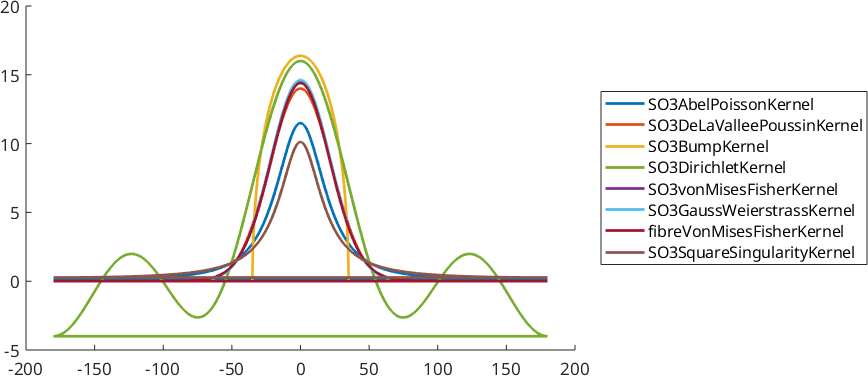
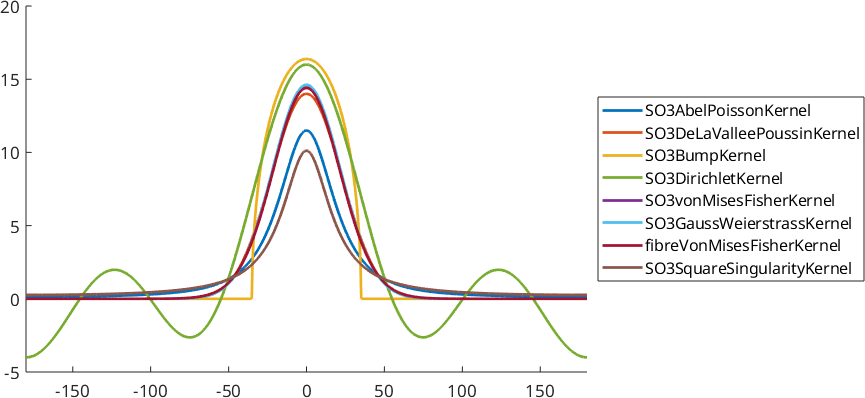
minor

diff --git a/pages/function_reference_matlab/EBSD3.gridify.html b/pages/function_reference_matlab/EBSD3.gridify.html
@@ -104,8 +104,8 @@ plot(ebsdMg, ebsdMg.orientations)
 ebsd = EBSD (y↑→x)
  
  Phase  Orientations     Mineral         Color  Symmetry  Crystal reference frame
-     0     46 (0.2%)  notIndexed                                                 
-     1  22833 (100%)   Magnesium  LightSkyBlue     6/mmm       X||a*, Y||b, Z||c*
+     0     46 (0.2%)  notIndexed          none                                   
+     1  22833 (100%)   Magnesium  LightSkyBlue     6/mmm        X||a*, Y||b, Z||c
  
  Properties: bands, bc, bs, error, mad
  Scan unit : um
@@ -116,13 +116,13 @@ ebsd = EBSD (y↑→x)
 ebsdMg = EBSDsquare (y↑→x)
  
  Phase  Orientations    Mineral         Color  Symmetry  Crystal reference frame
-     1  22833 (100%)  Magnesium  LightSkyBlue     6/mmm       X||a*, Y||b, Z||c*
+     1  22833 (100%)  Magnesium  LightSkyBlue     6/mmm        X||a*, Y||b, Z||c
  
  Properties: bands, bc, bs, error, mad, oldId
  Scan unit : um
  X x Y x Z : [0, 50] x [0, 41] x [0, 0]
  Normal vector: (0,0,1)
- Square grid  :137 x 167
+ Square grid  :167 x 137
 {% endhighlight %}
 <center>
 {% include inline_image.html file="EBSD3.gridify_01.png" %}

diff --git a/pages/function_reference_matlab/EBSD.gridify.html b/pages/function_reference_matlab/EBSD.gridify.html
@@ -104,8 +104,8 @@ plot(ebsdMg, ebsdMg.orientations)
 ebsd = EBSD (y↑→x)
  
  Phase  Orientations     Mineral         Color  Symmetry  Crystal reference frame
-     0     46 (0.2%)  notIndexed                                                 
-     1  22833 (100%)   Magnesium  LightSkyBlue     6/mmm       X||a*, Y||b, Z||c*
+     0     46 (0.2%)  notIndexed          none                                   
+     1  22833 (100%)   Magnesium  LightSkyBlue     6/mmm        X||a*, Y||b, Z||c
  
  Properties: bands, bc, bs, error, mad
  Scan unit : um
@@ -116,13 +116,13 @@ ebsd = EBSD (y↑→x)
 ebsdMg = EBSDsquare (y↑→x)
  
  Phase  Orientations    Mineral         Color  Symmetry  Crystal reference frame
-     1  22833 (100%)  Magnesium  LightSkyBlue     6/mmm       X||a*, Y||b, Z||c*
+     1  22833 (100%)  Magnesium  LightSkyBlue     6/mmm        X||a*, Y||b, Z||c
  
  Properties: bands, bc, bs, error, mad, oldId
  Scan unit : um
  X x Y x Z : [0, 50] x [0, 41] x [0, 0]
  Normal vector: (0,0,1)
- Square grid  :137 x 167
+ Square grid  :167 x 137
 {% endhighlight %}
 <center>
 {% include inline_image.html file="EBSD.gridify_01.png" %}

diff --git a/pages/documentation_matlab/CPOSeismicProperties.html b/pages/documentation_matlab/CPOSeismicProperties.html
@@ -33,7 +33,7 @@ mtexdata forsterite
 ebsd = EBSD (y↑→x)
  
  Phase  Orientations     Mineral         Color  Symmetry  Crystal reference frame
-     0   58485 (24%)  notIndexed                                                 
+     0   58485 (24%)  notIndexed          none                                   
      1  152345 (62%)  Forsterite  LightSkyBlue       mmm                         
      2   26058 (11%)   Enstatite  DarkSeaGreen       mmm                         
      3   9064 (3.7%)    Diopside     Goldenrod     12/m1       X||a*, Y||b*, Z||c

diff --git a/pages/function_reference_matlab/EBSD.spatialProfile.html b/pages/function_reference_matlab/EBSD.spatialProfile.html
@@ -105,8 +105,8 @@ mtexdata twins
 ebsd = EBSD (y↑→x)
  
  Phase  Orientations     Mineral         Color  Symmetry  Crystal reference frame
-     0     46 (0.2%)  notIndexed                                                 
-     1  22833 (100%)   Magnesium  LightSkyBlue     6/mmm       X||a*, Y||b, Z||c*
+     0     46 (0.2%)  notIndexed          none                                   
+     1  22833 (100%)   Magnesium  LightSkyBlue     6/mmm        X||a*, Y||b, Z||c
  
  Properties: bands, bc, bs, error, mad
  Scan unit : um

diff --git a/pages/function_reference_matlab/EBSDsquare.spatialProfile.html b/pages/function_reference_matlab/EBSDsquare.spatialProfile.html
@@ -105,8 +105,8 @@ mtexdata twins
 ebsd = EBSD (y↑→x)
  
  Phase  Orientations     Mineral         Color  Symmetry  Crystal reference frame
-     0     46 (0.2%)  notIndexed                                                 
-     1  22833 (100%)   Magnesium  LightSkyBlue     6/mmm       X||a*, Y||b, Z||c*
+     0     46 (0.2%)  notIndexed          none                                   
+     1  22833 (100%)   Magnesium  LightSkyBlue     6/mmm        X||a*, Y||b, Z||c
  
  Properties: bands, bc, bs, error, mad
  Scan unit : um

diff --git a/pages/function_reference_matlab/EBSD3.load.html b/pages/function_reference_matlab/EBSD3.load.html
@@ -154,7 +154,7 @@ ebsd = EBSD.load(fname,'CS',CS, 'ColumnNames', ...
 ebsd = EBSD (y↑→x)
  
  Phase  Orientations     Mineral         Color  Symmetry  Crystal reference frame
-     0   11411 (19%)  notIndexed                                                 
+     0   11411 (19%)  notIndexed          none                                   
      1   48184 (79%)          Fe  LightSkyBlue      m-3m                         
      2   1180 (1.9%)          Mg  DarkSeaGreen      m-3m                         
  
